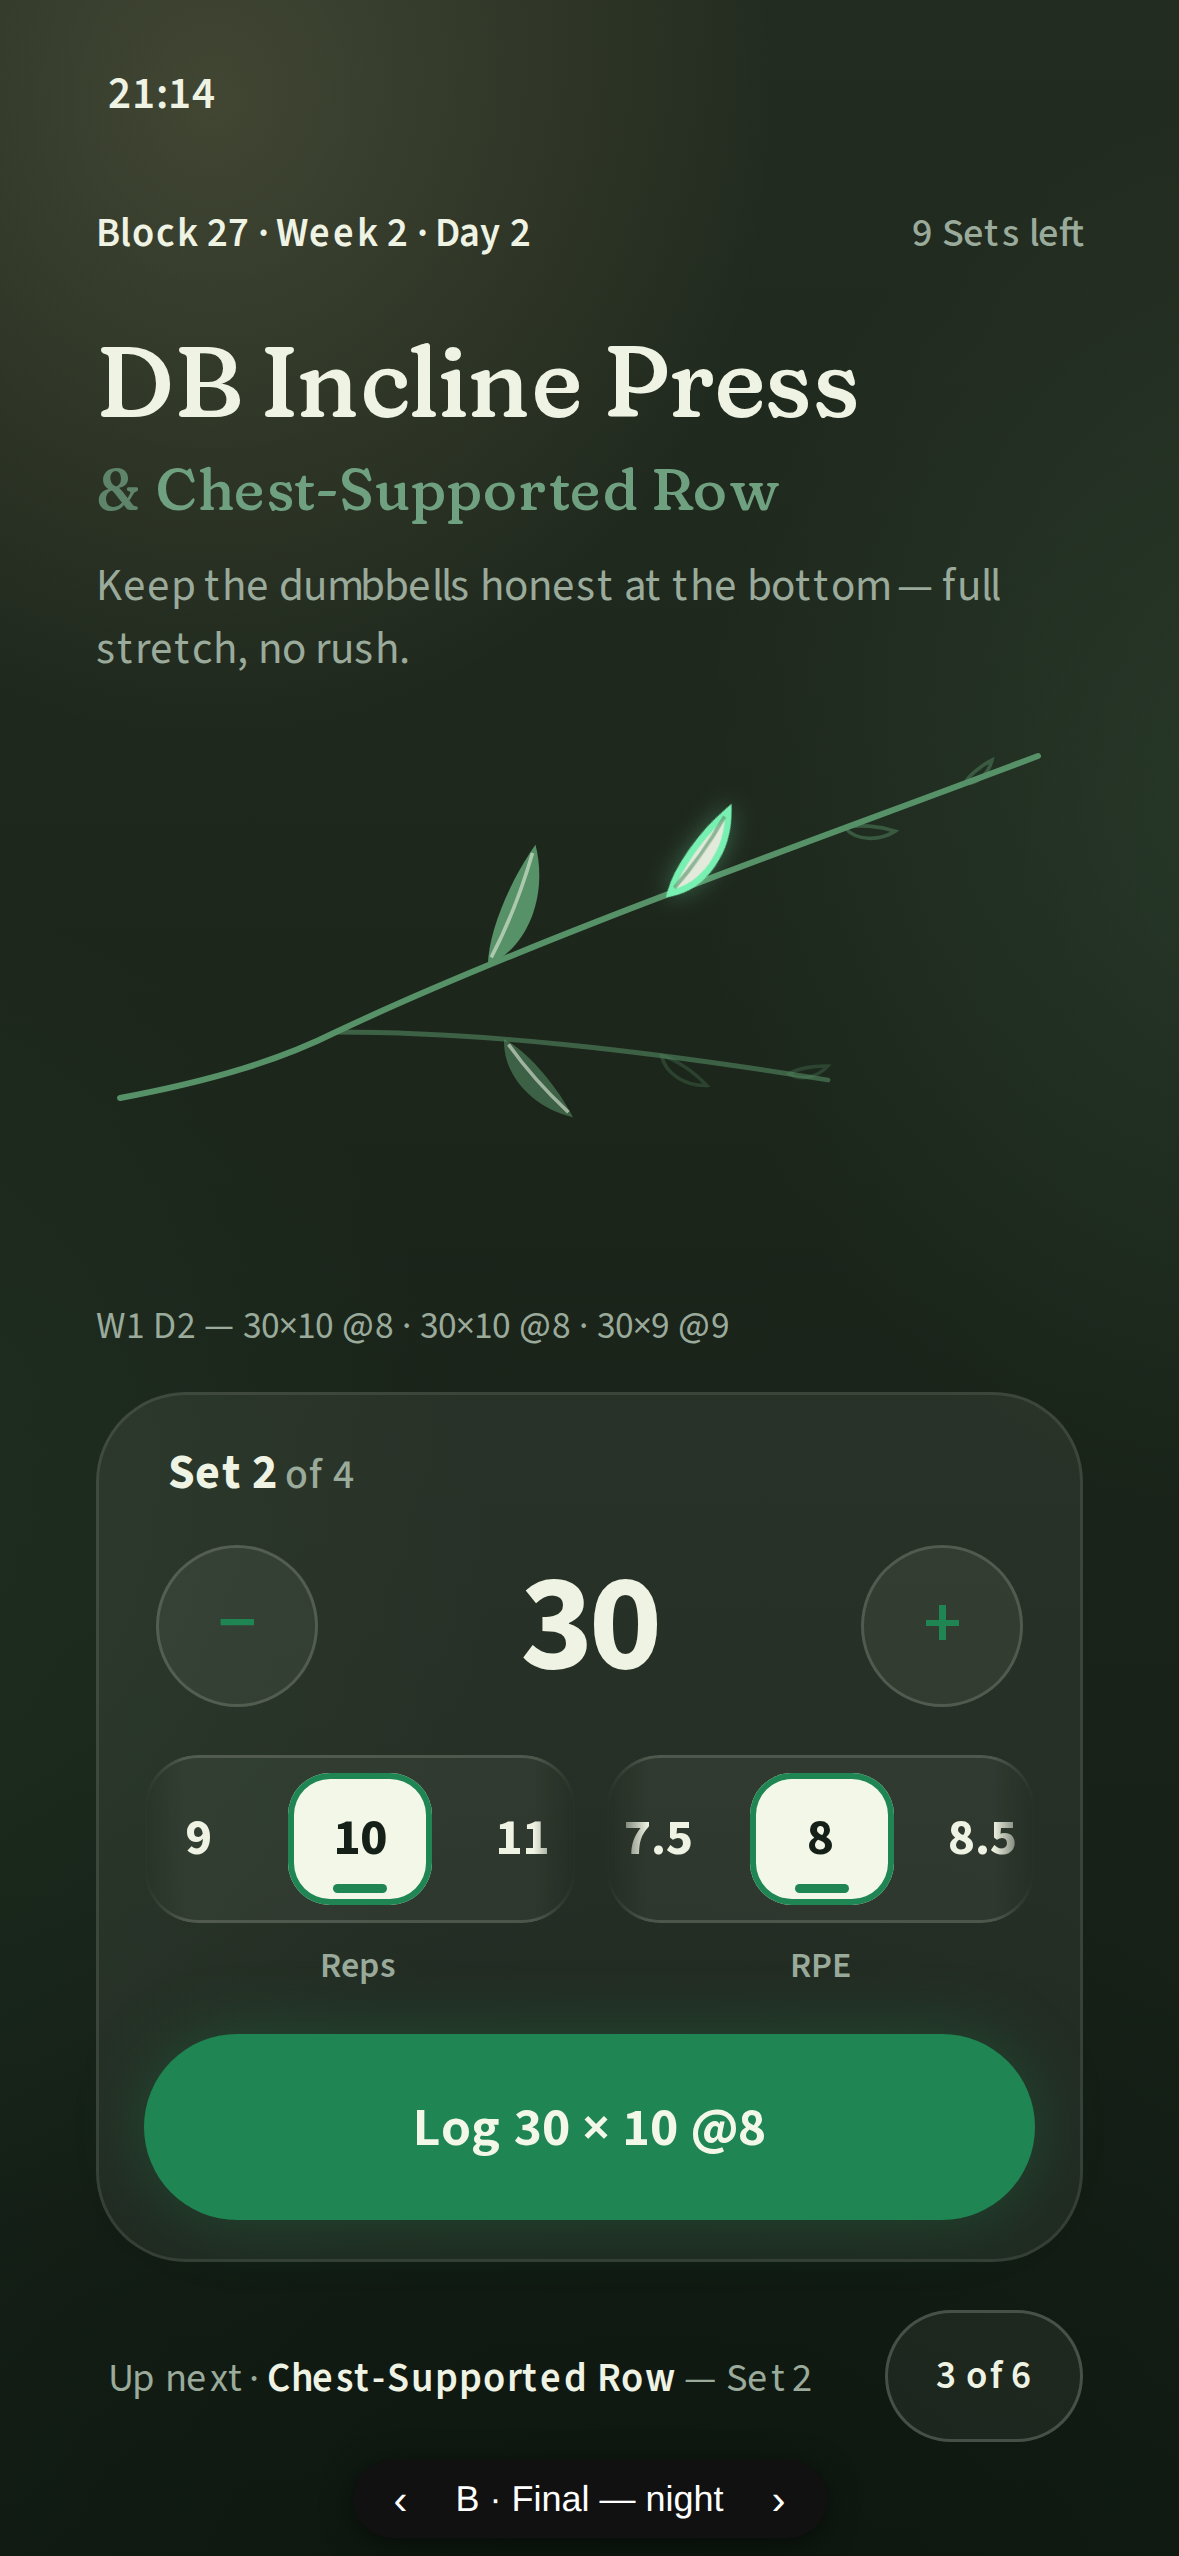
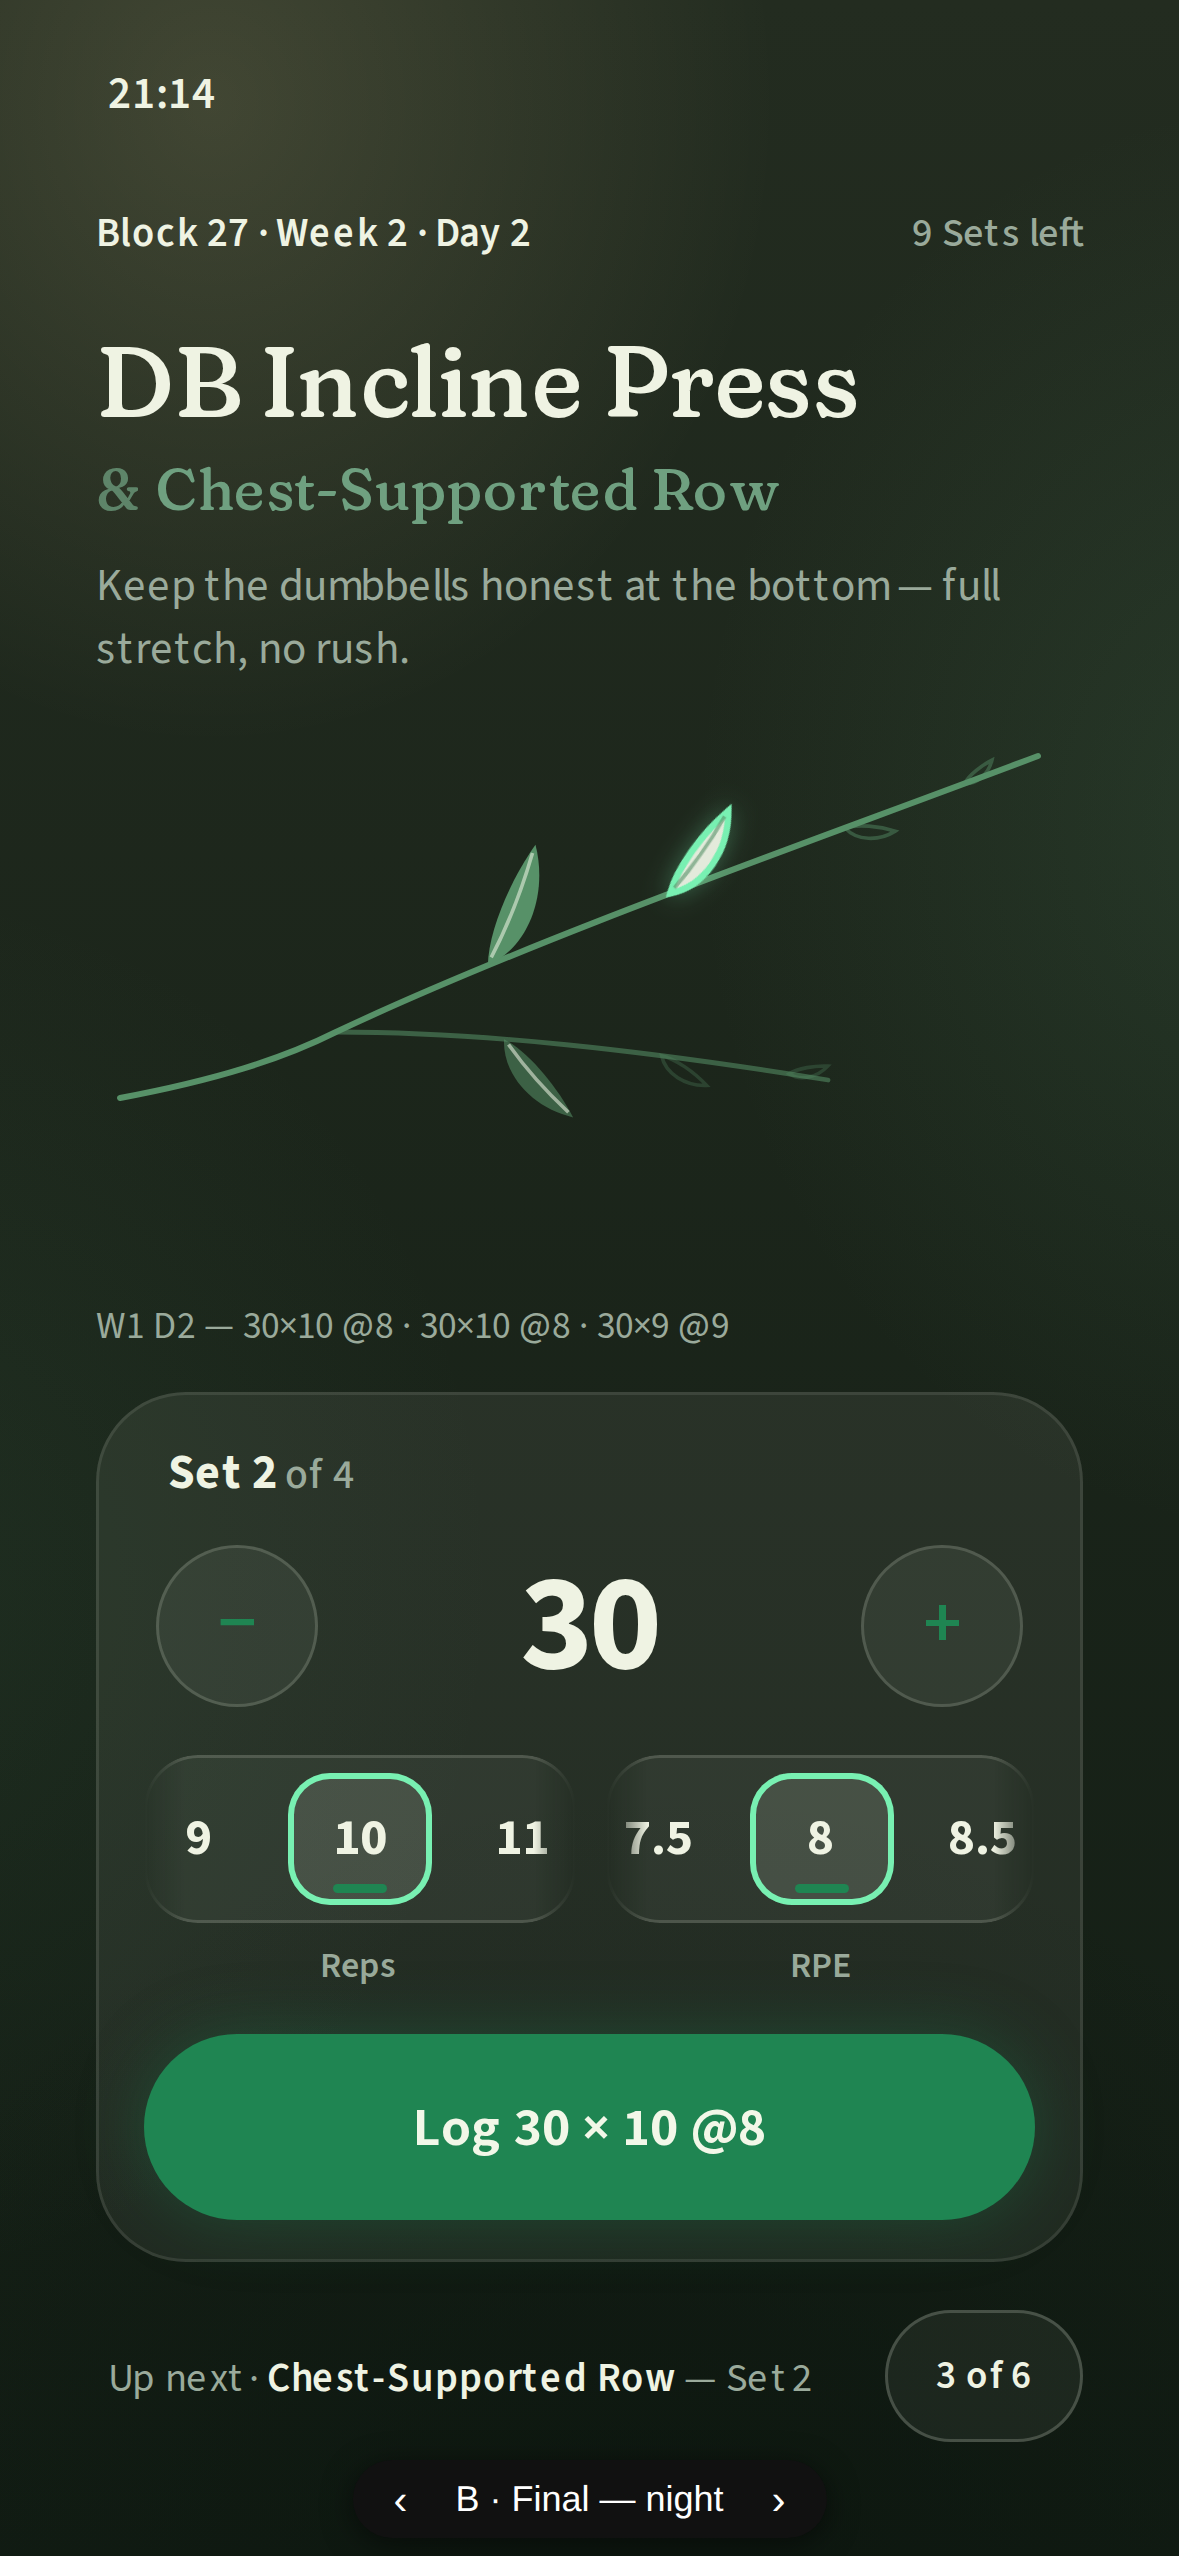
Night rails: selection re-lights like the bud, not the day cream chip (#430)
The cream selected chip glared on the night paper. Night selection is now
dark fill (cream @ 0.12) with the bud-stroke ring (#78F0B2) and cream text.

Claude-Session: https://claude.ai/code/session_01DDzZSgrPA6LUGad2MP5FTr

Changed region(s): [[0.6107, 0.68, 0.7634, 0.7727], [0.2443, 0.68, 0.3664, 0.7727]]

diff --git a/docs/design/superset-stage-prototypes/superset-stage4.html b/docs/design/superset-stage-prototypes/superset-stage4.html
@@ -208,6 +208,12 @@ h1.exercise {
           mask-image: linear-gradient(90deg, transparent 0, #000 14px, #000 calc(100% - 14px), transparent 100%);
 }
 body[data-variant="b"] .rail { background: rgba(242, 247, 232, 0.05); }
+/* night selection re-lights like the bud: dark fill, the bud-stroke ring,
+   cream text — never the day chip's cream block (glares on the night paper) */
+body[data-variant="b"] .rail .chip.sel {
+  background: rgba(242, 247, 232, 0.12);
+  box-shadow: inset 0 0 0 2px #78F0B2;
+}
 .rail::-webkit-scrollbar { display: none; }
 .rail .chip {
   flex: none; scroll-snap-align: center;
@@ -218,7 +224,6 @@ body[data-variant="b"] .rail { background: rgba(242, 247, 232, 0.05); }
 }
 .rail .chip.dim { color: var(--muted); font-weight: 600; }
 .rail .chip.sel { background: var(--cream); box-shadow: inset 0 0 0 2px var(--action); }
-body[data-variant="b"] .rail .chip.sel { color: #152118; }
 .rail .chip .presc {
   position: absolute; bottom: 4px; left: 50%; transform: translateX(-50%);
   width: 18px; height: 3px; border-radius: 2px; background: var(--action);

diff --git a/docs/design/superset-stage-prototypes/superset-stage4.template.html b/docs/design/superset-stage-prototypes/superset-stage4.template.html
@@ -196,6 +196,12 @@ h1.exercise {
           mask-image: linear-gradient(90deg, transparent 0, #000 14px, #000 calc(100% - 14px), transparent 100%);
 }
 body[data-variant="b"] .rail { background: rgba(242, 247, 232, 0.05); }
+/* night selection re-lights like the bud: dark fill, the bud-stroke ring,
+   cream text — never the day chip's cream block (glares on the night paper) */
+body[data-variant="b"] .rail .chip.sel {
+  background: rgba(242, 247, 232, 0.12);
+  box-shadow: inset 0 0 0 2px #78F0B2;
+}
 .rail::-webkit-scrollbar { display: none; }
 .rail .chip {
   flex: none; scroll-snap-align: center;
@@ -206,7 +212,6 @@ body[data-variant="b"] .rail { background: rgba(242, 247, 232, 0.05); }
 }
 .rail .chip.dim { color: var(--muted); font-weight: 600; }
 .rail .chip.sel { background: var(--cream); box-shadow: inset 0 0 0 2px var(--action); }
-body[data-variant="b"] .rail .chip.sel { color: #152118; }
 .rail .chip .presc {
   position: absolute; bottom: 4px; left: 50%; transform: translateX(-50%);
   width: 18px; height: 3px; border-radius: 2px; background: var(--action);
